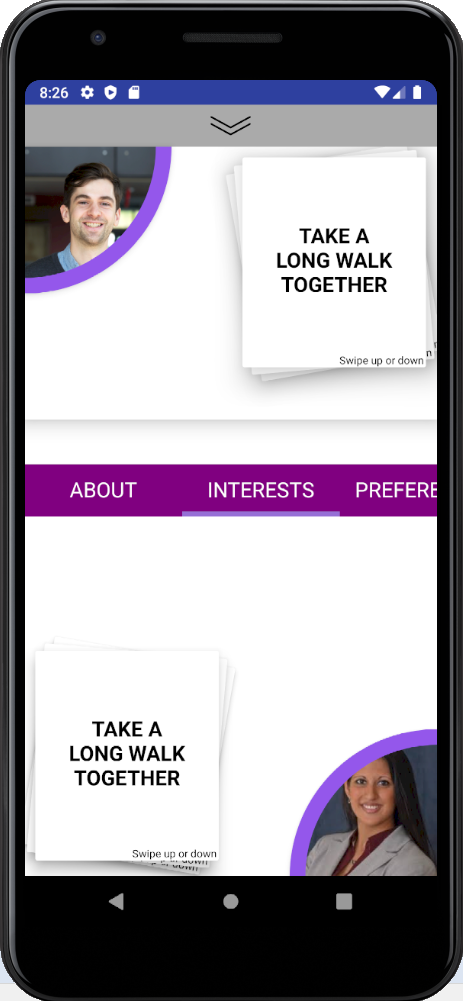
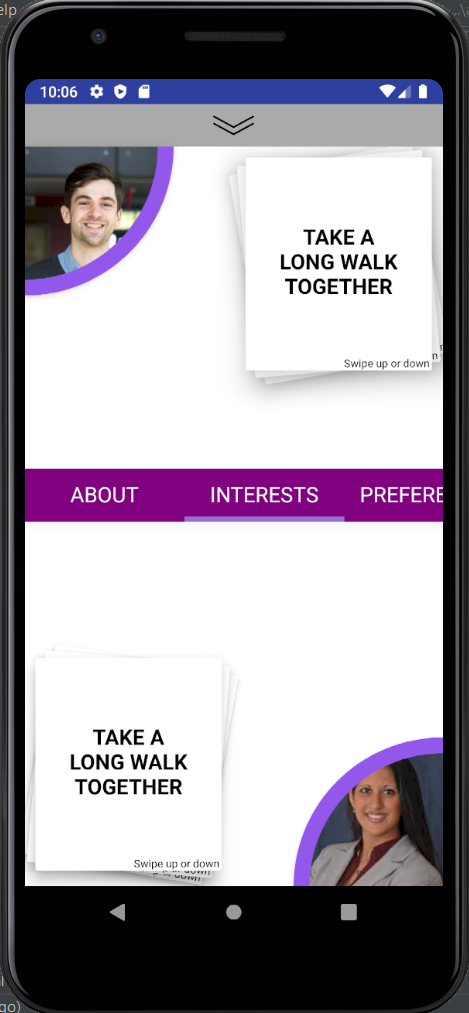
Arnab | Fixes interests fragment bug

diff --git a/app/src/main/java/com/example/profilecomparator/InterestsFragment.java b/app/src/main/java/com/example/profilecomparator/InterestsFragment.java
@@ -60,6 +60,7 @@ public class InterestsFragment extends Fragment implements View.OnTouchListener
 
         SCREEN_WIDTH=getActivity().getWindowManager().getDefaultDisplay().getWidth();
         SCREEN_HEIGHT=getActivity().getWindowManager().getDefaultDisplay().getHeight();
+        final float scale = getContext().getResources().getDisplayMetrics().density;
 
         GUY_INTERESTS=guyHobbyName.length;GIRL_INTERESTS=girlHobbyName.length;
         inCard=new CardView[6];
@@ -81,6 +82,11 @@ public class InterestsFragment extends Fragment implements View.OnTouchListener
         inName[5]=(TextView)view.findViewById(R.id.inName6);
 
         cover=(RelativeLayout)view.findViewById(R.id.cover);
+
+        RelativeLayout.LayoutParams coverParam = new RelativeLayout.LayoutParams(
+                ViewGroup.LayoutParams.MATCH_PARENT, (int)(SCREEN_HEIGHT/2));
+        cover.setLayoutParams(coverParam);
+
         cover.setElevation(35);
 
         inCard[2].setOnTouchListener(this);
